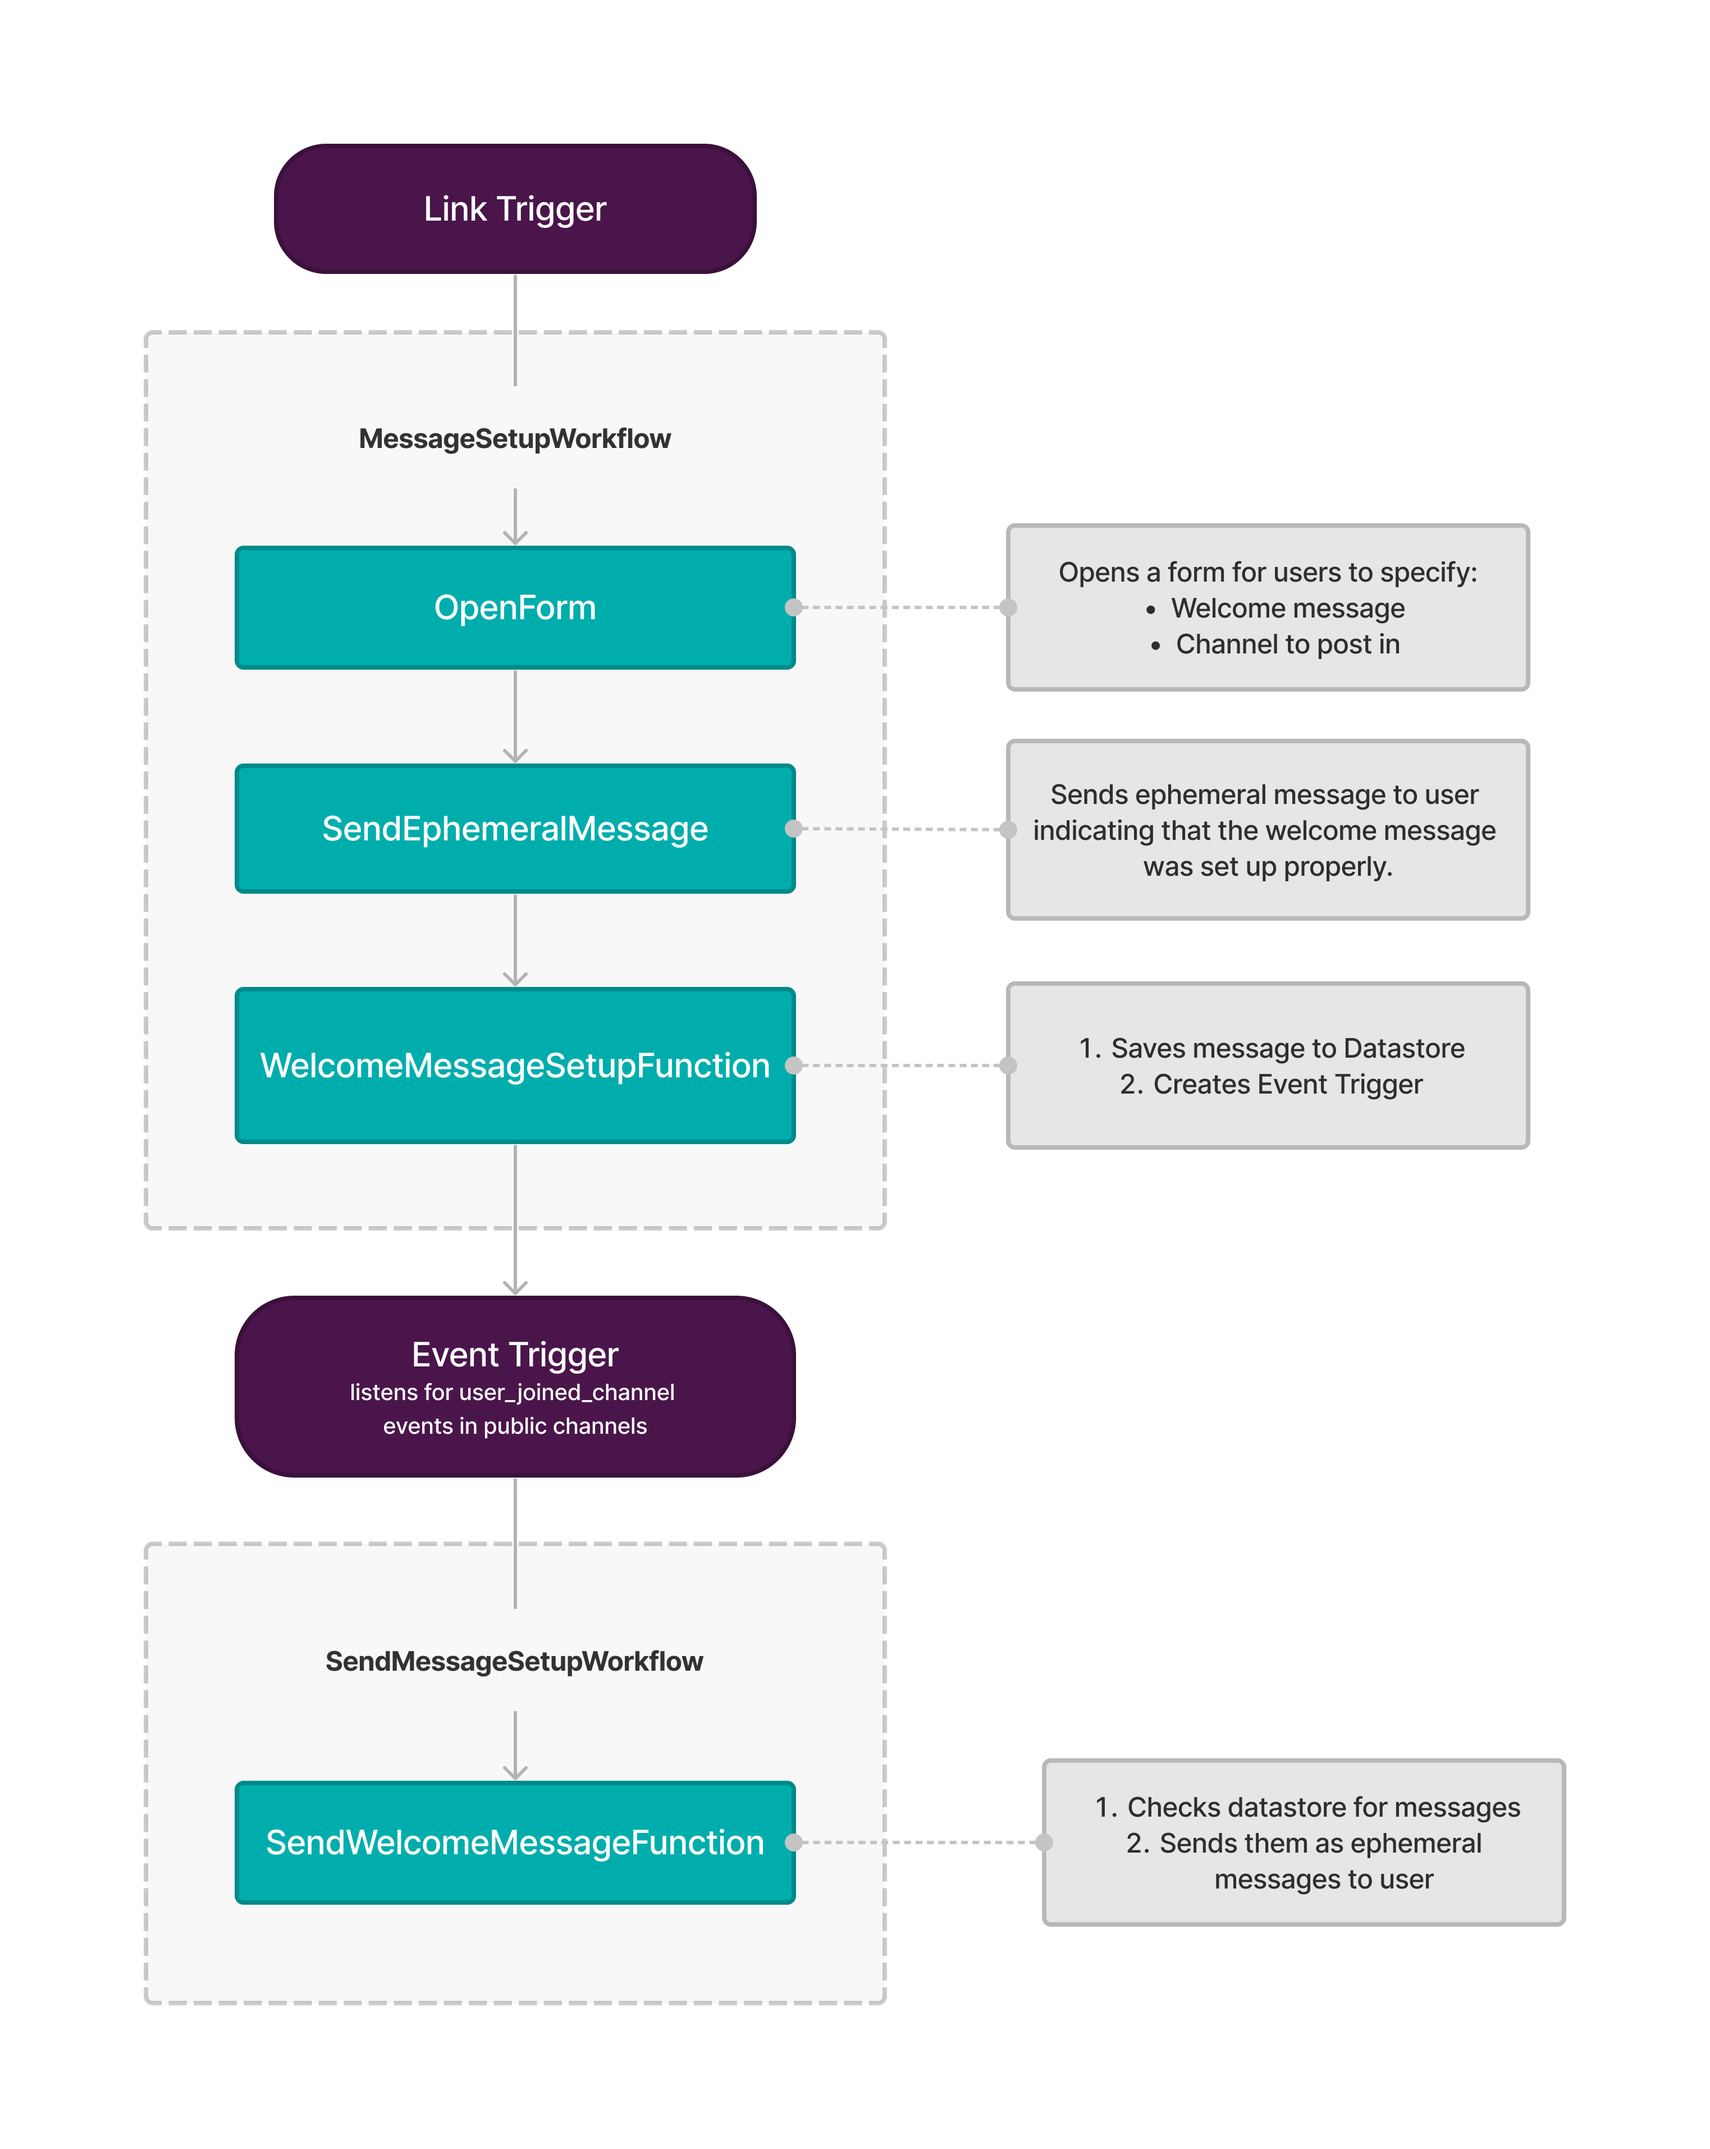
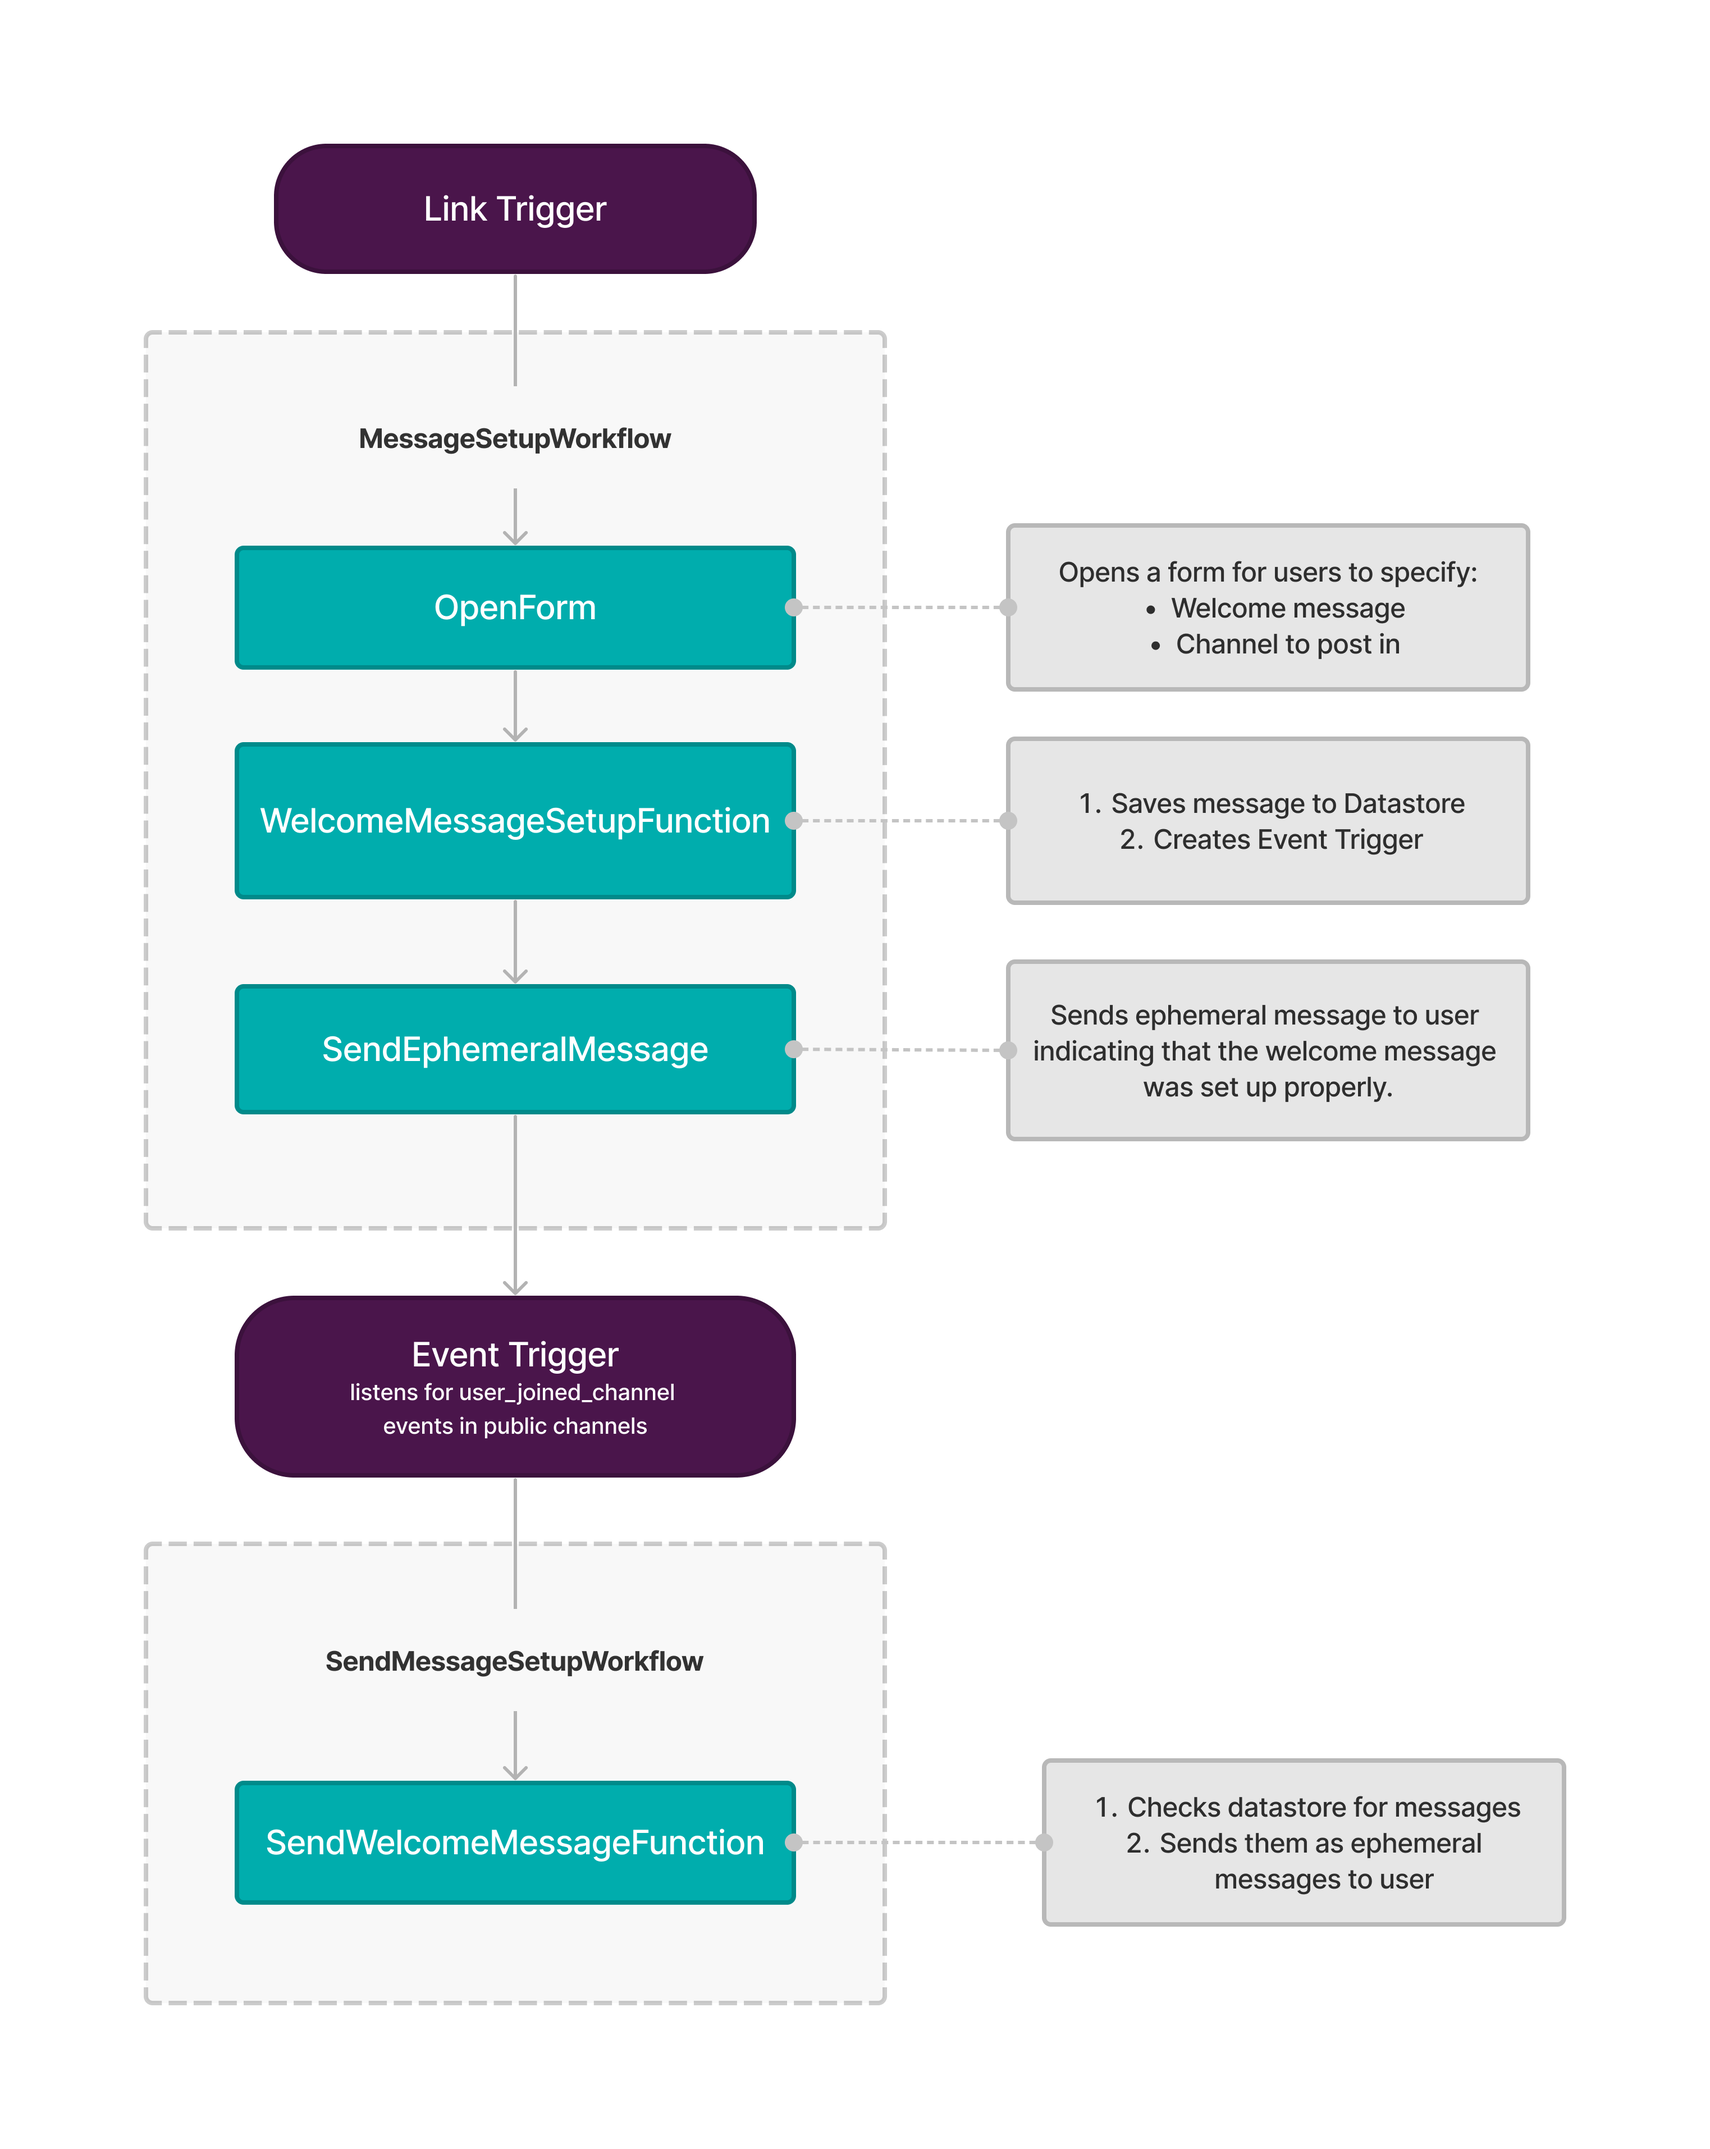
Create `user_joined_channel` event triggers for welcome messages (#13)

Changed region(s): [[0.1248, 0.342, 0.4678, 0.5596], [0.5614, 0.342, 0.9045, 0.5596]]

diff --git a/functions/create_welcome_message.ts b/functions/create_welcome_message.ts
@@ -1,6 +1,8 @@
-import { SlackFunction } from "deno-slack-sdk/mod.ts";
-import { DATASTORE_NAME } from "../datastores/messages.ts";
-import { DefineFunction, Schema } from "deno-slack-sdk/mod.ts";
+import { SlackAPIClient } from "deno-slack-api/types.ts";
+import { DefineFunction, Schema, SlackFunction } from "deno-slack-sdk/mod.ts";
+
+import { SendWelcomeMessageWorkflow } from "../workflows/send_welcome_message.ts";
+import { WelcomeMessageDatastore } from "../datastores/messages.ts";
 
 /**
  * This custom function will take the initial form input, store it
@@ -14,7 +16,7 @@ export const WelcomeMessageSetupFunction = DefineFunction({
   source_file: "functions/create_welcome_message.ts",
   input_parameters: {
     properties: {
-      welcome_message: {
+      message: {
         type: Schema.types.string,
         description: "The welcome message",
       },
@@ -28,34 +30,104 @@ export const WelcomeMessageSetupFunction = DefineFunction({
           "The user ID of the person who created the welcome message",
       },
     },
-    required: ["welcome_message", "channel"],
+    required: ["message", "channel"],
   },
 });
 
 export default SlackFunction(
   WelcomeMessageSetupFunction,
   async ({ inputs, client }) => {
+    const { channel, message, author } = inputs;
     const uuid = crypto.randomUUID();
 
-    const putResponse = await client.apps.datastore.put({
-      datastore: DATASTORE_NAME,
-      item: {
-        id: uuid,
-        channel: inputs.channel,
-        message: inputs.welcome_message,
-        author: inputs.author,
-      },
+    // Save information about the welcome message to the datastore
+    const putResponse = await client.apps.datastore.put<
+      typeof WelcomeMessageDatastore.definition
+    >({
+      datastore: WelcomeMessageDatastore.name,
+      item: { id: uuid, channel, message, author },
     });
 
     if (!putResponse.ok) {
-      return {
-        error: putResponse.error,
-        outputs: {},
-      };
-    } else {
-      return {
-        outputs: {},
-      };
+      return { error: `Failed to save welcome message: ${putResponse.error}` };
     }
+
+    // Search for any existing triggers for the welcome workflow
+    const triggers = await findUserJoinedChannelTrigger(client, channel);
+    if (triggers.error) {
+      return { error: `Failed to lookup existing triggers: ${triggers.error}` };
+    }
+
+    // Create a new user_joined_channel trigger if none exist
+    if (!triggers.exists) {
+      const newTrigger = await saveUserJoinedChannelTrigger(client, channel);
+      if (!newTrigger.ok) {
+        return {
+          error: `Failed to create welcome trigger: ${newTrigger.error}`,
+        };
+      }
+    }
+
+    return { outputs: {} };
   },
 );
+
+/**
+ * findUserJoinedChannelTrigger returns if the user_joined_channel trigger
+ * exists for the "Send Welcome Message" workflow in a channel.
+ */
+export async function findUserJoinedChannelTrigger(
+  client: SlackAPIClient,
+  channel: string,
+): Promise<{ error?: string; exists?: boolean }> {
+  // Collect all existing triggers created by the app
+  const allTriggers = await client.workflows.triggers.list({ is_owner: true });
+  if (!allTriggers.ok) {
+    return { error: allTriggers.error };
+  }
+
+  // Find user_joined_channel triggers for the "Send Welcome Message"
+  // workflow in the specified channel
+  const joinedTriggers = allTriggers.triggers.filter((trigger) => (
+    trigger.workflow.callback_id ===
+      SendWelcomeMessageWorkflow.definition.callback_id &&
+    trigger.event_type === "slack#/events/user_joined_channel" &&
+    trigger.channel_ids.includes(channel)
+  ));
+
+  // Return if any matching triggers were found
+  const exists = joinedTriggers.length > 0;
+  return { exists };
+}
+
+/**
+ * saveUserJoinedChannelTrigger creates a new user_joined_channel trigger
+ * for the "Send Welcome Message" workflow in a channel.
+ */
+export async function saveUserJoinedChannelTrigger(
+  client: SlackAPIClient,
+  channel: string,
+): Promise<{ ok: boolean; error?: string }> {
+  const triggerResponse = await client.workflows.triggers.create<
+    typeof SendWelcomeMessageWorkflow.definition
+  >({
+    type: "event",
+    name: "User joined channel",
+    description: "Send a message when a user joins the channel",
+    workflow:
+      `#/workflows/${SendWelcomeMessageWorkflow.definition.callback_id}`,
+    event: {
+      event_type: "slack#/events/user_joined_channel",
+      channel_ids: [channel],
+    },
+    inputs: {
+      channel: { value: channel },
+      triggered_user: { value: "{{data.user_id}}" },
+    },
+  });
+
+  if (!triggerResponse.ok) {
+    return { ok: false, error: triggerResponse.error };
+  }
+  return { ok: true };
+}

diff --git a/workflows/create_welcome_message.ts b/workflows/create_welcome_message.ts
@@ -28,7 +28,7 @@ export const MessageSetupWorkflow = DefineWorkflow({
  * inputs -- a welcome message and a channel id for that message to
  * be posted in.
  */
-export const SetupWorkflowForm = MessageSetupWorkflow.addStep(
+const SetupWorkflowForm = MessageSetupWorkflow.addStep(
   Schema.slack.functions.OpenForm,
   {
     title: "Welcome Message Form",
@@ -56,7 +56,18 @@ export const SetupWorkflowForm = MessageSetupWorkflow.addStep(
 );
 
 /**
- * This next step uses the SendEphemeralMessage built-in function.
+ * This step takes the form output and passes it along to a custom
+ * function which sets the welcome message up.
+ * See `/functions/setup_function.ts` for more information.
+ */
+MessageSetupWorkflow.addStep(WelcomeMessageSetupFunction, {
+  message: SetupWorkflowForm.outputs.fields.messageInput,
+  channel: SetupWorkflowForm.outputs.fields.channel,
+  author: MessageSetupWorkflow.inputs.interactivity.interactor.id,
+});
+
+/**
+ * This step uses the SendEphemeralMessage built-in function.
  * An ephemeral confirmation message will be sent to the user
  * creating the welcome message, after the user submits the above
  * form.
@@ -66,17 +77,6 @@ MessageSetupWorkflow.addStep(Schema.slack.functions.SendEphemeralMessage, {
   user_id: MessageSetupWorkflow.inputs.interactivity.interactor.id,
   message:
     `Your welcome message for this channel was successfully created! :white_check_mark:`,
-});
-
-/**
- * This step takes the form output and passes it along to a custom
- * function which sets the welcome message up.
- * See `/functions/setup_function.ts` for more information.
- */
-MessageSetupWorkflow.addStep(WelcomeMessageSetupFunction, {
-  welcome_message: SetupWorkflowForm.outputs.fields.messageInput,
-  channel: SetupWorkflowForm.outputs.fields.channel,
-  author: MessageSetupWorkflow.inputs.interactivity.interactor.id,
 });
 
 export default MessageSetupWorkflow;

diff --git a/functions/send_welcome_message.ts b/functions/send_welcome_message.ts
@@ -1,6 +1,5 @@
-import { SlackFunction } from "deno-slack-sdk/mod.ts";
-import { DATASTORE_NAME } from "../datastores/messages.ts";
-import { DefineFunction, Schema } from "deno-slack-sdk/mod.ts";
+import { DefineFunction, Schema, SlackFunction } from "deno-slack-sdk/mod.ts";
+import { WelcomeMessageDatastore } from "../datastores/messages.ts";
 
 /**
  * This custom function will pull the stored message from the datastore
@@ -31,19 +30,30 @@ export default SlackFunction(SendWelcomeMessageFunction, async (
   { inputs, client },
 ) => {
   // Querying datastore for stored messages
-  const result = await client.apps.datastore.query({
-    datastore: DATASTORE_NAME,
+  const messages = await client.apps.datastore.query<
+    typeof WelcomeMessageDatastore.definition
+  >({
+    datastore: WelcomeMessageDatastore.name,
     expression: "#channel = :mychannel",
     expression_attributes: { "#channel": "channel" },
     expression_values: { ":mychannel": inputs.channel },
   });
 
-  for (const item of result["items"]) {
-    await client.chat.postEphemeral({
+  if (!messages.ok) {
+    return { error: `Failed to gather welcome messages: ${messages.error}` };
+  }
+
+  // Send the stored messages ephemerally
+  for (const item of messages["items"]) {
+    const message = await client.chat.postEphemeral({
       channel: item["channel"],
       text: item["message"],
       user: inputs.triggered_user,
     });
+
+    if (!message.ok) {
+      return { error: `Failed to send welcome message: ${message.error}` };
+    }
   }
 
   return {

diff --git a/manifest.ts b/manifest.ts
@@ -1,5 +1,5 @@
 import { Manifest } from "deno-slack-sdk/mod.ts";
-import { MessageSetupDatastore } from "./datastores/messages.ts";
+import { WelcomeMessageDatastore } from "./datastores/messages.ts";
 import { MessageSetupWorkflow } from "./workflows/create_welcome_message.ts";
 import { SendWelcomeMessageWorkflow } from "./workflows/send_welcome_message.ts";
 
@@ -10,7 +10,7 @@ export default Manifest({
   icon: "assets/default_new_app_icon.png",
   workflows: [MessageSetupWorkflow, SendWelcomeMessageWorkflow],
   outgoingDomains: [],
-  datastores: [MessageSetupDatastore],
+  datastores: [WelcomeMessageDatastore],
   botScopes: [
     "chat:write",
     "chat:write.public",
@@ -18,5 +18,6 @@ export default Manifest({
     "datastore:write",
     "channels:read",
     "triggers:write",
+    "triggers:read",
   ],
 });

diff --git a/triggers/create_welcome_message_shortcut.ts b/triggers/create_welcome_message_shortcut.ts
@@ -1,13 +1,14 @@
 import { Trigger } from "deno-slack-api/types.ts";
+import MessageSetupWorkflow from "../workflows/create_welcome_message.ts";
 
 /**
  * This link trigger prompts the MessageSetupWorkflow workflow.
  */
-const welcomeMessageTrigger: Trigger = {
+const welcomeMessageTrigger: Trigger<typeof MessageSetupWorkflow.definition> = {
   type: "shortcut",
   name: "Setup a Welcome Message",
   description: "Creates an automated welcome message for a given channel.",
-  workflow: "#/workflows/message_setup_workflow",
+  workflow: `#/workflows/${MessageSetupWorkflow.definition.callback_id}`,
   inputs: {
     interactivity: {
       value: "{{data.interactivity}}",

diff --git a/datastores/messages.ts b/datastores/messages.ts
@@ -1,9 +1,12 @@
 import { DefineDatastore, Schema } from "deno-slack-sdk/mod.ts";
 
-export const DATASTORE_NAME = "messages";
-
-export const MessageSetupDatastore = DefineDatastore({
-  name: DATASTORE_NAME,
+/**
+ * Datastores are a Slack-hosted location to store
+ * and retrieve data for your app.
+ * https://api.slack.com/future/datastores
+ */
+export const WelcomeMessageDatastore = DefineDatastore({
+  name: "messages",
   primary_key: "id",
   attributes: {
     id: {
